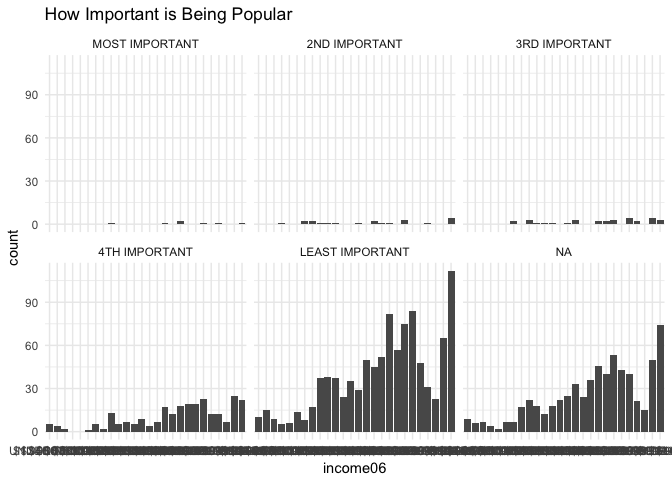
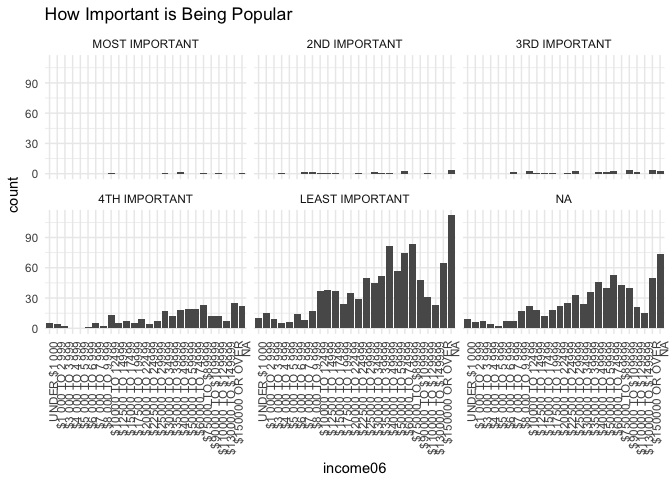
New & Improved!

diff --git a/students/pezzuto_john/Exploration_Writeup.md b/students/pezzuto_john/Exploration_Writeup.md
@@ -4,34 +4,42 @@ Exploration Write-Up (Part 2)
 Introduction
 ------------
 
-In exploring through this data I separated my work into 3 main categories. These categories are family income, factors affecting how people voted in the 2008 presidential election, and racial preferences (i.e. differences stemming from self-reported closeness with black people). In this write-up I will go through each of these sections and give a general write-up about what I found, and include a graph supporting my findings.
+In exploring through this data I separated my work into 3 main categories. These categories are family income, factors affecting how people voted in the 2008 presidential election, and racial preferences (i.e. differences stemming from self-reported closeness with black people). In this write-up I will go through each of these sections and give a general write-up about what I found, and include graphs supporting my findings.
 
 Family Incomes
 --------------
 
 The first factor I looked at was family incomes. I made graphs looking at the relationship between family income, education, happiness, work status, and more. The relationship between education and income was positive but not tight, likewise there was a positive relationship between happiness and family income, but most people still reported being "pretty happy" compared to "very happy". There was little to no relationship between age and family income.
 
-One group who was especially interesting to study, was the group with the highest family incomes ($150,000 OR OVER). The families with the highest incomes were especially likely to report that hard work is key to getting ahead, but in comparison, the group third in family incomes ($110,000 TO $129,999) did not share that sentiment which was a bit counter intuitive. It could be that this is the group that begins to consider themselves middle class, but this is only speculation. People of all wealth groups agreed that "being popular" was not important, but this attitude was especially prevalent among the families with the highest incomes. The highest group for family income was also much more likely than other groups to rate religion as "strongly important". This was intuitive to me because I read the book "The Millionaire Mind" several years ago which reports a similar finding. Families in the highest income bracket did not want to answer how they voted in the 2008 presidential election more than any other group. This non-response bias could be interesting to look at in further research.
-
-One finding I was off guard to find was that self employment is more or less heterogeneous among family incomes. My hypothesis was that the families with the highest incomes would be more likely to be self-employed because they were entrepreneurs. I was wrong about this. Below is a graph with the supporting data:
+One group who was especially interesting to study, was the group with the highest family incomes ($150,000 OR OVER). The families with the highest incomes were especially likely to report that hard work is key to getting ahead, but in comparison, the group third in family incomes ($110,000 TO $129,999) did not share that sentiment which was a bit counter intuitive. It could be that this is the group that begins to consider themselves middle class, but this is only speculation. This lead me to wonder about the research question -- "what's the correlation between family income and needing to be liked by other people?" I was wondering if some of the higher income families would be especially anti-social compared to lesser well off families. The closest representation of this I could find is the "importance of popularity". My results are graphed below:
 
 ![](Exploration_Writeup_files/figure-markdown_github-ascii_identifiers/unnamed-chunk-2-1.png)
+
+People of all wealth groups agreed that "being popular" was not important, but this attitude was especially prevalent among the families with the highest incomes. The highest group for family income was also much more likely than other groups to rate religion as "strongly important". This was intuitive to me because I read the book "The Millionaire Mind" several years ago which reports a similar finding. Families in the highest income bracket did not want to answer how they voted in the 2008 presidential election more than any other group. This non-response bias could be interesting to look at in further research.
+
+Another finding I was curious to look at was the relationship between self employment and family income. Intuitively I thought that self-employed people would be more wealthy than people employed by others because self-employed people would most likely keep their own profits. My research question was "Do self employed people live in higher income families?" It turns out, self-employment is more or less homogeneous among family incomes. My hypothesis was that the families with the highest incomes would be more likely to be self-employed because they were well off entrepreneurs. I was wrong about this. Below is a graph with the supporting data:
+
+![](Exploration_Writeup_files/figure-markdown_github-ascii_identifiers/unnamed-chunk-3-1.png)
+
+Besides a small flare in the lowest income group of not being self-employed, there seemed to be little relationship between employer and family income.
 
 Voting in the 2008 Presidential Election
 ----------------------------------------
 
 In this sample, most people reported voting for Obama, but there was a huge number of people who did not respond who they voted for. This was also salient when I plotted who people voted for against where they people placed themselves on the political spectrum. It was fairly rare for someone who considered themselves liberal to vote for McCain. However, people from all across the political spectrum decided not to report how they voted. This is definitely something for researchers to look further into, and is likely that this phenomenon is related to the failure by most people to predict the Trump win in 2016.
 
-I then tried to look at the connections between between who people voted for and their opinions about other factors. There was little to no relationship between supporting space exploration and how people voted. Similarly, there was only a weak relationship between who people voted for and halting natural crime. However, people who voted for McCain seemed more likely than average to think that not enough money was being spent on defense. This is intuitive because McCain was a war veteran, and campaigned on that. In regards to spending on scientific research, there was not much a relationship between who people voted for and their support for scientific research.
+I then tried to look at the connections between between who people voted for and their opinions about other factors. There was little to no relationship between supporting space exploration and how people voted. Similarly, there was only a weak relationship between who people voted for and halting natural crime. I realized that my stereotype of perhaps some of my stereotypes against replublicans were inaccurate. I then decided to think more deeply -- I remembered McCain was a war veteran, and campaigned on that. This lead to the research question "Is there a correlation between opinions on defense spending and Voting for John McCain?" The findings are graphed below: ![](Exploration_Writeup_files/figure-markdown_github-ascii_identifiers/unnamed-chunk-4-1.png)
 
-It did look like people who voted for Obama tended to think the Bible was less important than people who voted for McCain or did not report their votes. This is graphed below:
+People who voted for McCain seemed more likely than average to think that not enough money was being spent on defense. This was the intuitive finding based on McCain's background. However regardless of who peopel voted for, most people did not have an opinion on defense spending.
 
-![](Exploration_Writeup_files/figure-markdown_github-ascii_identifiers/unnamed-chunk-3-1.png)
+People who voted for Obama also tended to think the Bible was less important than people who voted for McCain or did not report their votes. This is graphed below:
+
+![](Exploration_Writeup_files/figure-markdown_github-ascii_identifiers/unnamed-chunk-5-1.png)
 
 Racial Preferences
 ------------------
 
-The first graph a made for this section was a jittered scatter plot comparing people’s self reported closeness with whites and blacks. The finding were intuitive -- black people tended to reported more closeness with black people than whites peope did, and vice versa. However, there was a fairly strong relationship of people feeling equally close with both races. Next I looked into opinions about marijuana legalization and closeness with blacks, as well as bible opinions. Both of these graphs were fairly uninformative because of the large number of people reported a medium (5) closeness with blacks which dominated the other groups.
+The first graph a made for this section was a jittered scatter plot comparing people’s self reported closeness with whites and blacks. The finding were intuitive -- black people tended to reported more closeness with black people than whites pope did, and vice versa. However, there was a fairly strong relationship of people feeling equally close with both races. Next I looked into opinions about marijuana legalization and closeness with blacks, as well as bible opinions. Both of these graphs were fairly uninformative because of the large number of people reported a medium (5) closeness with blacks which dominated the other groups.
 
 Next I filtered the results to look at only people who did not feel close with black (which I defined as closeness with blacks less than 2.5), and found that these people were less likely to vote for Obama, but this wasn’t very related with strength of religion or opinion on homosexual speech or even “preference for hiring blacks”.
 
@@ -39,4 +47,4 @@ However, when I faceted by hiring preferences in regards to blacks, and graphed 
 
 However, both groups were largely outnumbered, by people who preferred not to answer the hiring preferences question.
 
-![](Exploration_Writeup_files/figure-markdown_github-ascii_identifiers/unnamed-chunk-4-1.png)
+![](Exploration_Writeup_files/figure-markdown_github-ascii_identifiers/unnamed-chunk-6-1.png)

diff --git a/students/pezzuto_john/Lab_Notebook.md b/students/pezzuto_john/Lab_Notebook.md
@@ -19,7 +19,8 @@ Exploring Income
 ``` r
 gss %>% 
   ggplot(aes(income06))+
-  geom_bar()
+  geom_bar()+
+   theme(axis.text.x = element_text(angle = 50, hjust = 1))
 ```
 
 ![](Lab_Notebook_files/figure-markdown_github-ascii_identifiers/unnamed-chunk-2-1.png)
@@ -29,7 +30,8 @@ gss %>%
 ``` r
 gss %>% 
   ggplot(aes(educ, income06))+
-  geom_count()
+  geom_count()+
+   theme(axis.text.x = element_text(angle = 50, hjust = 1))
 ```
 
 ![](Lab_Notebook_files/figure-markdown_github-ascii_identifiers/unnamed-chunk-3-1.png)
@@ -38,7 +40,8 @@ gss %>%
 gss %>% 
   ggplot(aes(income06))+
   geom_bar()+
-  facet_wrap(~happy)
+  facet_wrap(~happy)+
+   theme(axis.text.x = element_text(angle = 50, hjust = 1))
 ```
 
 ![](Lab_Notebook_files/figure-markdown_github-ascii_identifiers/unnamed-chunk-4-1.png)
@@ -48,7 +51,8 @@ gss %>%
 ``` r
 gss %>% 
   ggplot(aes(as.factor(income06), fill=wrkstat))+
-  geom_bar(position = "fill")
+  geom_bar(position = "fill")+
+   theme(axis.text.x = element_text(angle = 50, hjust = 1))
 ```
 
 ![](Lab_Notebook_files/figure-markdown_github-ascii_identifiers/unnamed-chunk-5-1.png)
@@ -58,7 +62,8 @@ gss %>%
 ``` r
 gss %>% 
   ggplot(aes(as.factor(income06), fill=wrkslf))+
-  geom_bar(position = "fill")
+  geom_bar(position = "fill")+
+   theme(axis.text.x = element_text(angle = 50, hjust = 1))
 ```
 
 ![](Lab_Notebook_files/figure-markdown_github-ascii_identifiers/unnamed-chunk-6-1.png)
@@ -68,7 +73,8 @@ gss %>%
 ``` r
 gss %>% 
   ggplot(aes(income06, age))+
-  geom_jitter()
+  geom_jitter()+
+   theme(axis.text.x = element_text(angle = 50, hjust = 1))
 ```
 
     ## Warning: Removed 5 rows containing missing values (geom_point).
@@ -80,7 +86,8 @@ gss %>%
   ggplot(aes(income06))+
   geom_bar()+
   facet_wrap(~workhard)+
-  labs(title = "Importance of Hard Work")
+  labs(title = "Importance of Hard Work")+
+   theme(axis.text.x = element_text(angle = 90, hjust = 1))
 ```
 
 ![](Lab_Notebook_files/figure-markdown_github-ascii_identifiers/unnamed-chunk-8-1.png)
@@ -90,7 +97,8 @@ gss %>%
   ggplot(aes(income06))+
   geom_bar()+
   facet_wrap(~getahead)+
-  labs(title = "How to Get Ahead")
+  labs(title = "How to Get Ahead")+
+   theme(axis.text.x = element_text(angle = 90, hjust = 1))
 ```
 
 ![](Lab_Notebook_files/figure-markdown_github-ascii_identifiers/unnamed-chunk-9-1.png)
@@ -102,7 +110,8 @@ gss %>%
   ggplot(aes(income06))+
   geom_bar()+
   facet_wrap(~popular)+
-  labs(title = "How Important is Being Popular")
+  labs(title = "How Important is Being Popular")+
+   theme(axis.text.x = element_text(angle = 90, hjust = 1))
 ```
 
 ![](Lab_Notebook_files/figure-markdown_github-ascii_identifiers/unnamed-chunk-10-1.png)
@@ -116,7 +125,8 @@ gss %>%
   ggplot(aes(income06))+
   geom_bar()+
   facet_wrap(~reliten)+
-  labs(title = "Religion")
+  labs(title = "Religion")+
+   theme(axis.text.x = element_text(angle = 90, hjust = 1))
 ```
 
 ![](Lab_Notebook_files/figure-markdown_github-ascii_identifiers/unnamed-chunk-11-1.png)
@@ -127,7 +137,8 @@ gss %>%
 gss %>% 
   ggplot(aes(income06))+
   geom_bar()+
-  facet_wrap(~pres08)
+  facet_wrap(~pres08)+
+   theme(axis.text.x = element_text(angle = 90, hjust = 1))
 ```
 
 ![](Lab_Notebook_files/figure-markdown_github-ascii_identifiers/unnamed-chunk-12-1.png)
@@ -233,7 +244,8 @@ gss %>%
 ``` r
 gss %>% 
   ggplot(aes(educ))+
-  geom_bar()
+  geom_bar()+
+   theme(axis.text.x = element_text(angle = 50, hjust = 1))
 ```
 
 ![](Lab_Notebook_files/figure-markdown_github-ascii_identifiers/unnamed-chunk-22-1.png)
@@ -362,7 +374,8 @@ gss %>%
 ``` r
 gss %>% 
   ggplot(aes(reliten))+
-  geom_bar()
+  geom_bar()+
+   theme(axis.text.x = element_text(angle = 50, hjust = 1))
 ```
 
 ![](Lab_Notebook_files/figure-markdown_github-ascii_identifiers/unnamed-chunk-33-1.png)
@@ -383,7 +396,8 @@ gss %>%
 ``` r
 gss %>% 
   ggplot(aes(affrmact))+
-  geom_bar()
+  geom_bar()+
+   theme(axis.text.x = element_text(angle = 50, hjust = 1))
 ```
 
 ![](Lab_Notebook_files/figure-markdown_github-ascii_identifiers/unnamed-chunk-35-1.png)
@@ -394,7 +408,8 @@ gss %>%
 gss %>% 
   filter(closeblk <2.5) %>% 
   ggplot(aes(affrmact))+
-  geom_bar()
+  geom_bar()+
+   theme(axis.text.x = element_text(angle = 50, hjust = 1))
 ```
 
 ![](Lab_Notebook_files/figure-markdown_github-ascii_identifiers/unnamed-chunk-36-1.png)
